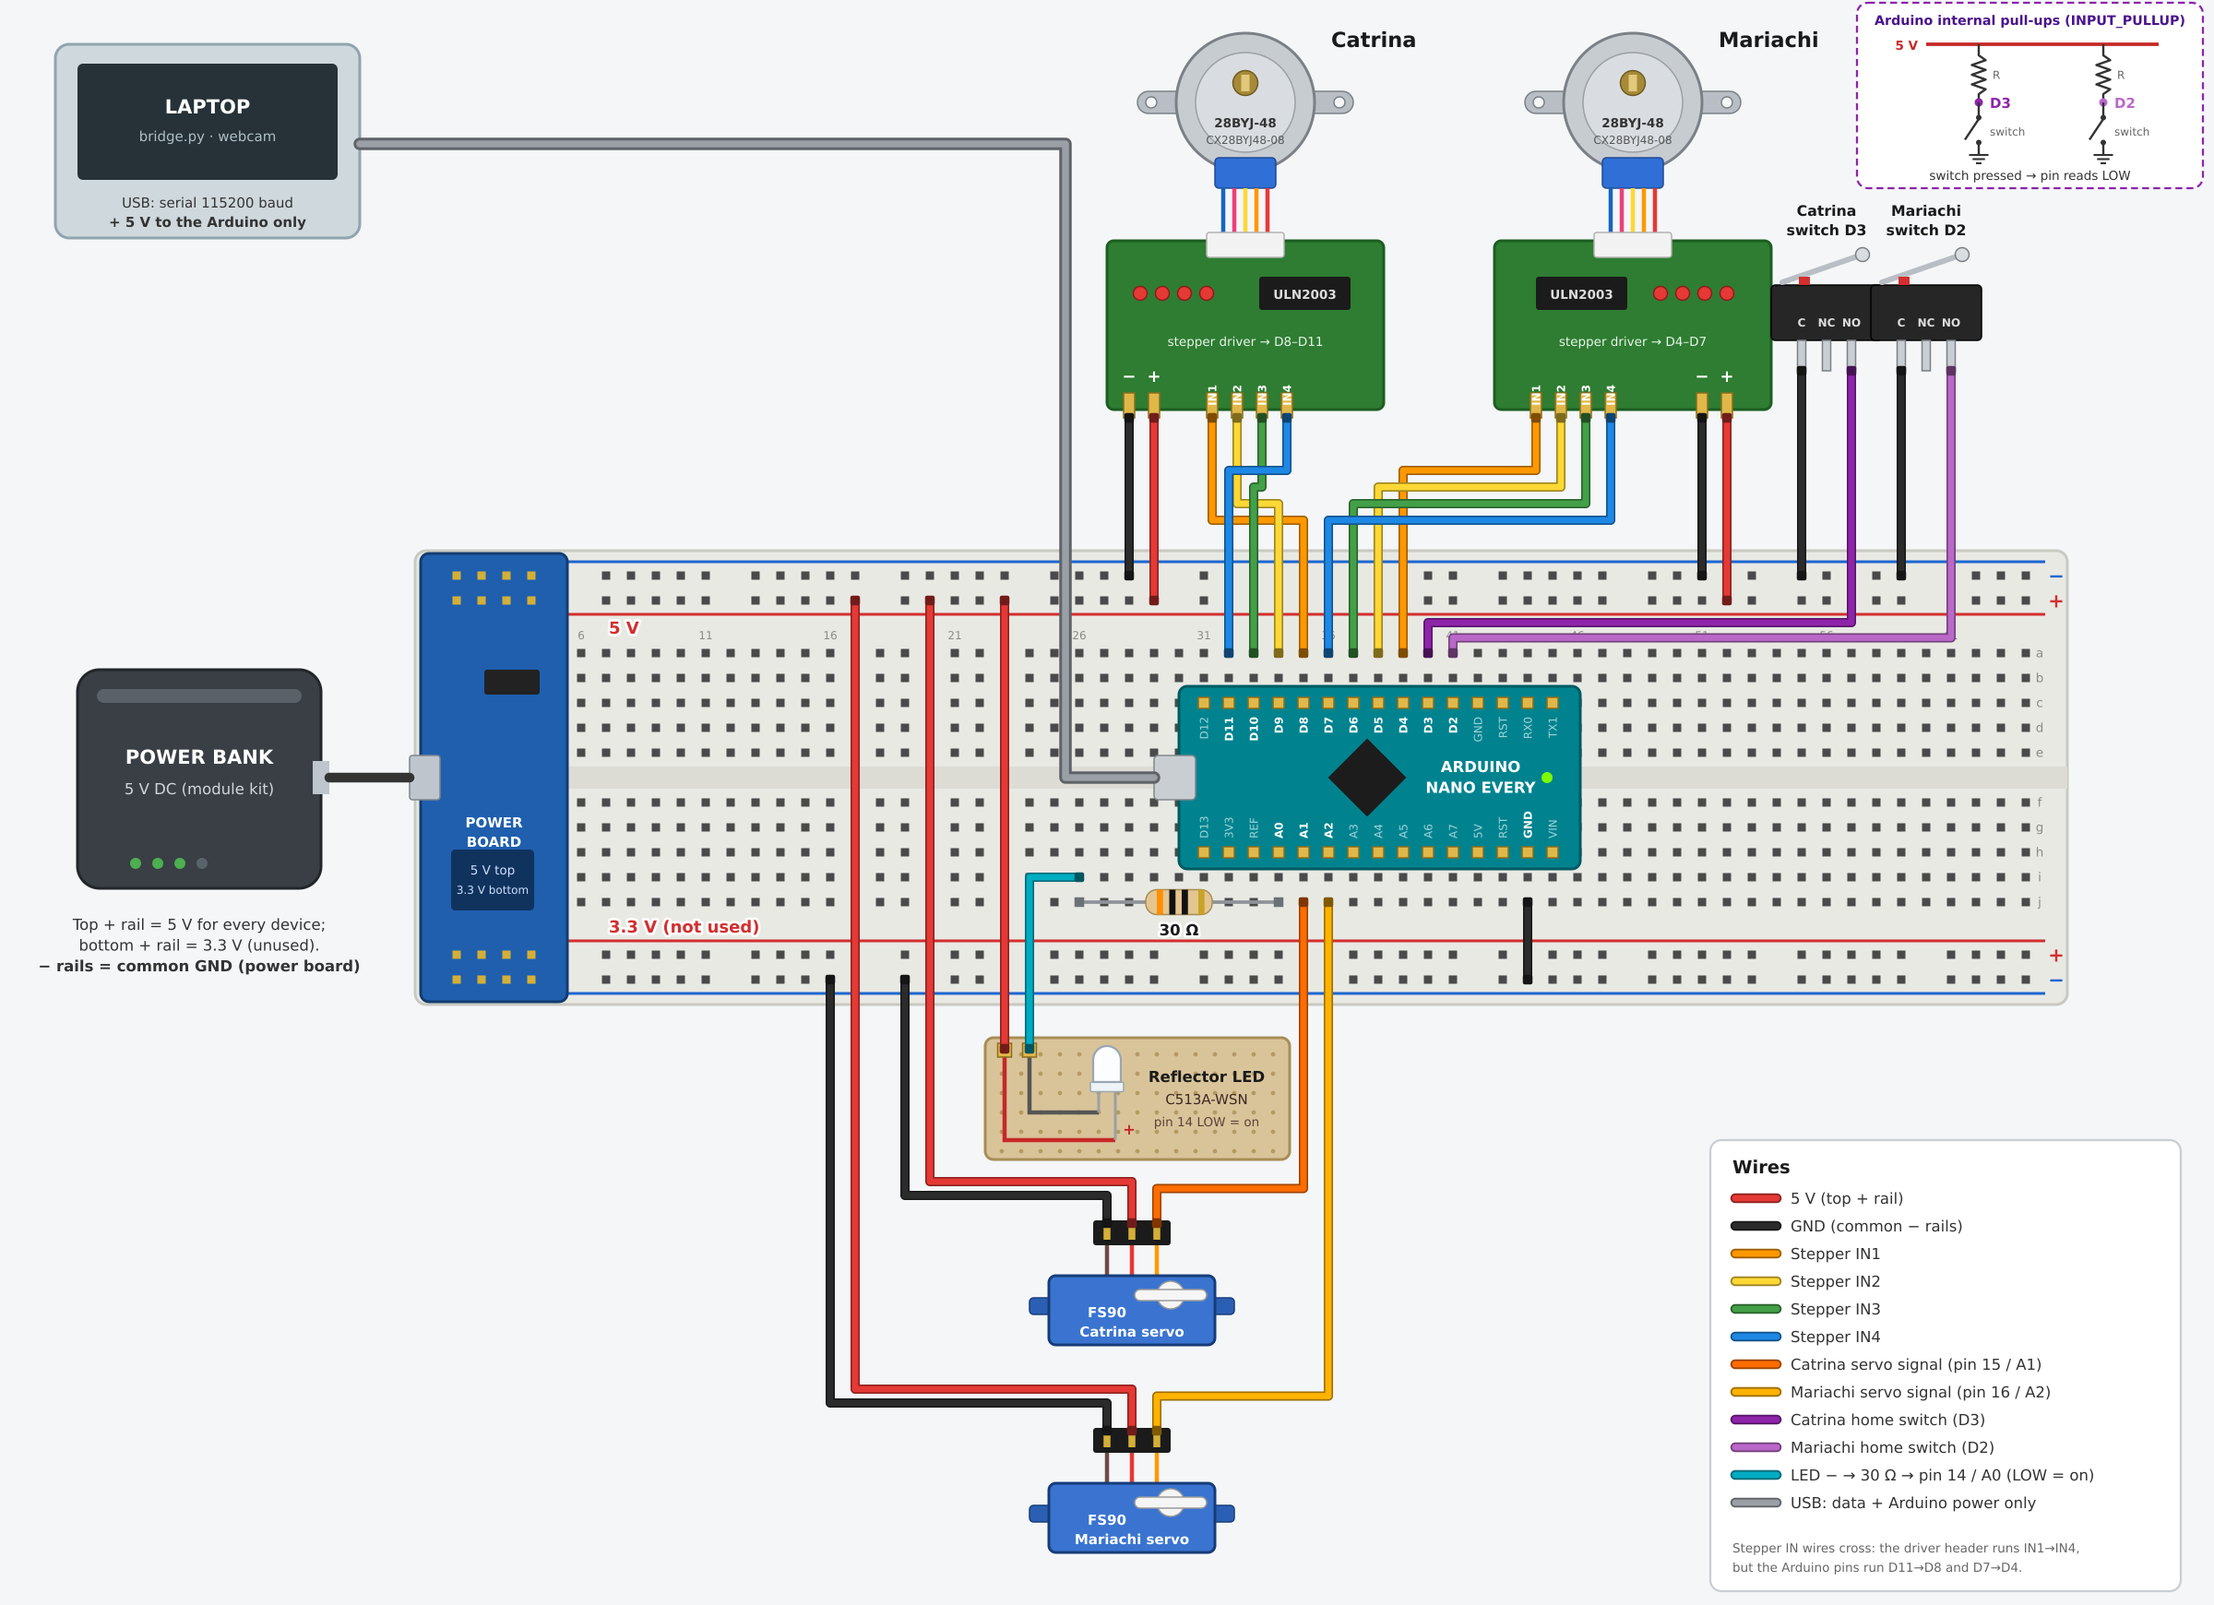
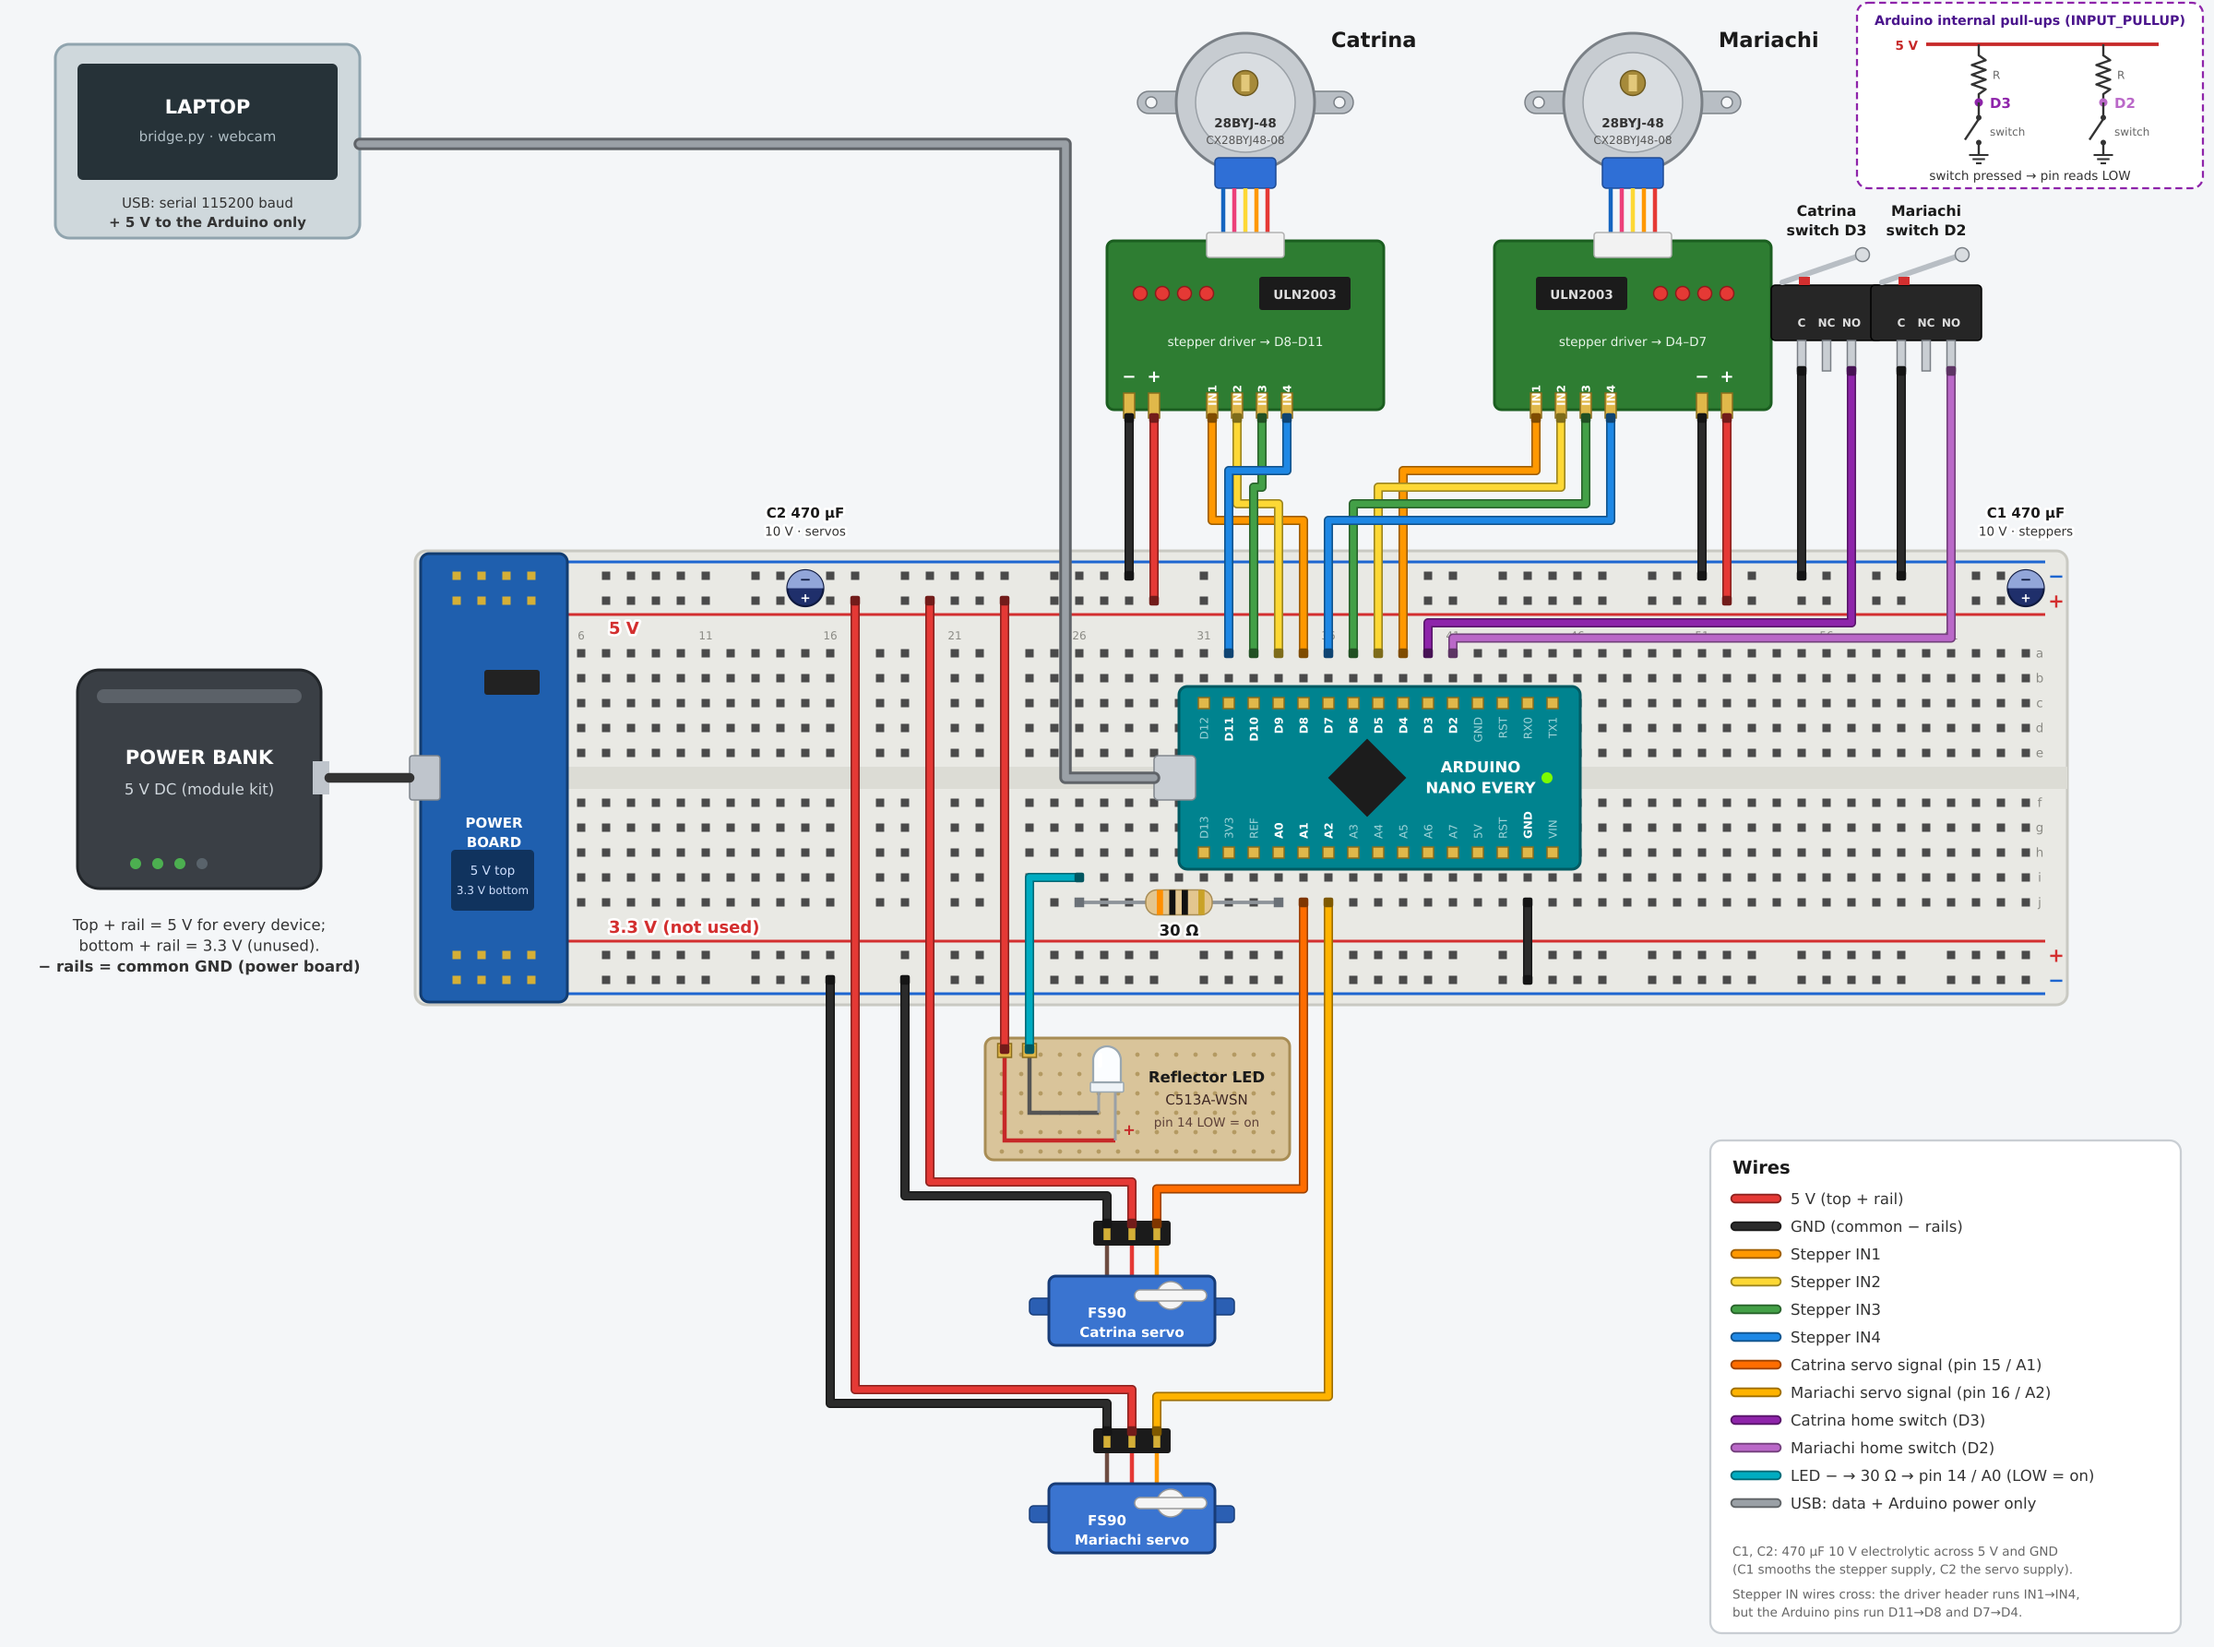
Electrical section
Completed

diff --git a/README.md b/README.md
@@ -78,7 +78,7 @@ The **HEART** gesture was chosen as a way to show and spread the love, then if y
 The system turns a hand gesture into movement and light on the stage. Six phases, from the webcam to the actuators, pass data along the pipeline, and the Arduino excecutes and reports back the current state so the music changes to match the scene.
 
 <p align="center">
-<img src="Media/2026-11-14-final-system-pipeline.png" width="60%">
+>
 
 *Figure 1. Overall system pipeline.* [TODO: check this is the final diagram.]
 </p>
@@ -326,23 +326,25 @@ Before installing the exterior enclosure, a final check is conducted to ensure a
 
 An Arduino runs the stage, driving two stepper motors, two servos, two home switches and an LED reflector from a 5 V power bank, and this section covers the parts, wiring, power and safety checks.
 
-### Bill of materials
+### Core components - E-BOM
 
-| Component | Quantity | Purpose |
-|---|---|---|
-| Arduino Nano Every — `PuppetScene.ino` | 1 | Runs the stage state machine |
-| 28BYJ-48 stepper motor CX28BYJ48-08 + driver board | 2 | Drives each carriage along its rail |
-| Servo motor FS90 | 2 | Rotates each silhouette during the dance |
-| Home (limit) switch | 2 | Zeroes each carriage at power-up |
-| Reflector light assembly C513A-WSN-CX0Z0231 | 1 | Light source for the shadows |
-| Webcam | 1 | Gesture input |
-| Power bank + power board (module kit) | 1 | 5 V DC supply |
+Each component was chosen to make the shadow show precise, repeatable and clearly visible. Every part runs from the same 5 V supply.
 
-[TODO: reason for each part and confirmation that it is on the approved list.]
+| Component | Quantity | Purpose | Why this part |
+|---|---|---|---|
+| Arduino Nano Every — `PuppetScene.ino` | 1 | Runs the stage state machine | MCU unit provided for this project |
+| 28BYJ-48 stepper motor CX28BYJ48-08 + driver board | 2 | Drives each carriage along its rail | Moves each character in precise steps, so every show repeats the same dance |
+| Servo motor FS90 | 2 | Rotates each silhouette during the dance | Turns quickly to set angles, changing the shadow's shape so the characters appear to dance |
+| Home (limit) switch | 2 | Zeroes each carriage at power-up | Allows setting up home position to the stepper motors |
+| Reflector light assembly C513A-WSN-CX0Z0231 | 1 | Light source for the shadows | Bright, with a 55° viewing angle, so this single light covers the stage and casts a sharp shadow |
+| Webcam | 1 | Gesture input | Capture the gestures of the audience |
+| Power bank + power board (module kit) | 1 | 5 V DC supply | Main power supply provided for this project |
+
 
 ### Wiring and circuit diagram
 
 Pin assignments, from the current stage sketch (`Code/Arduino/PuppetScene`):
+<p align=center>
 
 | Function | Catrina | Mariachi |
 |---|---|---|
@@ -350,12 +352,71 @@ Pin assignments, from the current stage sketch (`Code/Arduino/PuppetScene`):
 | Servo signal | 15 | 16 |
 | Home switch (to GND, `INPUT_PULLUP`, active LOW) | 3 | 2 |
 | Reflector (shared, active LOW) | 14 | 14 |
+</p>
 
-*Figure 14. Electrical circuit and hardware connections.* [TODO: circuit diagram.]
+An Arduino Nano Every, powered and controlled over USB from the laptop, sits on a breadboard whose top rail supplies 5 V from the power board to every other device, with a common GND on both − rails.
+Two ULN2003 drivers run the 28BYJ-48 steppers (Catrina on D8–D11, Mariachi on D4–D7), and two FS90 servos rotate the silhouettes (pins 15 and 16).
+The home switches on D3 and D2 use the Arduino’s internal pull-ups and read LOW when pressed, and the reflector LED turns on when pin 14 goes LOW through a 30 Ω resistor.
+
+<p align=center>
+<img src="Media/2026-11-14-circuit-diagram.png" width="100%">
+Figure 14. Electrical circuit and hardware connections.
+</p>
 
 ### Power estimate
 
-[TODO: current of each stepper, servo and the reflector at idle and at peak, compared with the power bank rating. Measured values preferred.]
+Estimated maximum consumption of the shadow theatre, from datasheet values (no measured currents).
+
+#### General equations
+
+Total power at the supply voltage:
+
+$$P_{total} = V \cdot I_{total}$$
+
+where $I_{total}$ consider the current of all the parts connected to the 5V power bank.
+
+Resistive loads (stepper coils), Ohm's law:
+
+$$I_{phase} = \frac{V}{R_{phase}} \qquad I_{stepper} = k \cdot I_{phase}$$
+
+with $k$ = number of coils energised at once (2 in `FULL4WIRE` mode).
+
+LED with a series resistor:
+
+$$I_{LED} = \frac{V - V_F}{R}$$
+
+#### Current per component (at 5 V)
+
+| Component | Qty | Datasheet value | Calculation | Current per part |
+|---|---|---|---|---|
+| 28BYJ-48 stepper (via ULN2003) | 2 | 50 Ω ± 7 % per phase, 5 V | 5 V / 50 Ω = 100 mA per phase × 2 phases | **200 mA** (max 215 mA at 46.5 Ω) |
+| FS90 servo, idle | 2 | 5 mA (4.8 V), 6 mA (6 V) | interpolated to 5 V | **5 mA** |
+| FS90 servo, moving (no load) | 2 | 100 mA (4.8 V), 120 mA (6 V) | interpolated to 5 V | **103 mA** |
+| FS90 servo, stalled | 2 | 700 mA (4.8 V), 800 mA (6 V) | interpolated to 5 V | **717 mA** |
+| C513A-WSN LED + 30 Ω | 1 | V<sub>F</sub> = 3.2 V typ. (4.0 V max) | (5 − 3.2) / 30 Ω | **60 mA** |
+
+
+Notes:
+
+- The ULN2003 voltage drop (≈ 1 V) is ignored, so the stepper current is an upper bound.
+- The sketch uses `AccelStepper::FULL4WIRE`, so **two coils are on at all times** while a stepper is enabled, also when it stands still. The steppers are only switched off (`disableOutputs`) during the DANCE servo phase and in EXIT.
+- The Arduino is listed separately: As it is powered from the laptop USB, it does not load the power bank.
+
+#### Current per state of the show
+
+From the state machine in `PuppetScene.ino`. Arduino not included (add ≈ 20 mA if it runs from the power bank).
+
+| State | Loads on | I<sub>total</sub> | P = 5 V × I |
+|---|---|---|---|
+| IDLE (after homing) | 2 steppers holding + 2 servos idle | 410 mA | 2.05 W |
+| HOMING | 2 steppers (one moving, one holding) + 2 servos idle | 410 mA | 2.05 W |
+| MOVE_12 / MOVE_21 / HOLD | 2 steppers + 2 servos idle + LED | **470 mA** | **2.35 W** |
+| DANCE (max) | 2 steppers + 2 servos idle + LED | 470 mA | 2.35 W |
+| EXIT | 2 servos idle (steppers and LED off) | 10 mA | 0.05 W |
+
+**Normal show (maximum power consumption state):** 470 mA → **2.35 W** (490 mA, 2.45 W with the Arduino).
+
+Note: The sketch never runs a servo and its own stepper together.
 
 ### Safe powering
 
@@ -722,6 +783,14 @@ The scripts find `dataset/`, `music/` and `hand_landmarker.task` relative to the
 - AccelStepper library. [TODO: full reference]
 - [TODO: module example code, datasheets, image and music credits]
 - Anthropic Claude. Anthropic Claude response to Group 20. 26 October to 11 November 2026.
+
+## 5.2 Engineering Documentation
+
+- [28BYJ-48 5 V stepper datasheet (Kiatronics)](https://www.piekarz.pl/pdf.php?id=33958): rated 5 V, DC resistance 50 Ω ± 7 %.
+- [FEETECH FS90 specification](https://www.pololu.com/file/0J1435/FS90-specs.pdf): idle, running and stall current at 4.8 V and 6 V.
+- [Cree C513A-WSS/WSN datasheet](https://it.exshinetech.com/datasheets/70/C513A-WSN-CX0Z0341.pdf): I<sub>F</sub> max 30 mA, V<sub>F</sub> 3.2 V typ. / 4.0 V max at 20 mA.
+- [Arduino Nano Every pinout](https://cdn.soselectronic.com/productdata/f5/1b/20adce8e/abx00033.pdf): 40 mA max per pin, 20 mA recommended.
+- [Nano Every board current, ≈ 20 mA (user report)](https://github.com/arduino/ArduinoCore-megaavr/issues/137).
 
 ## 5.2 AI-use notice
 
